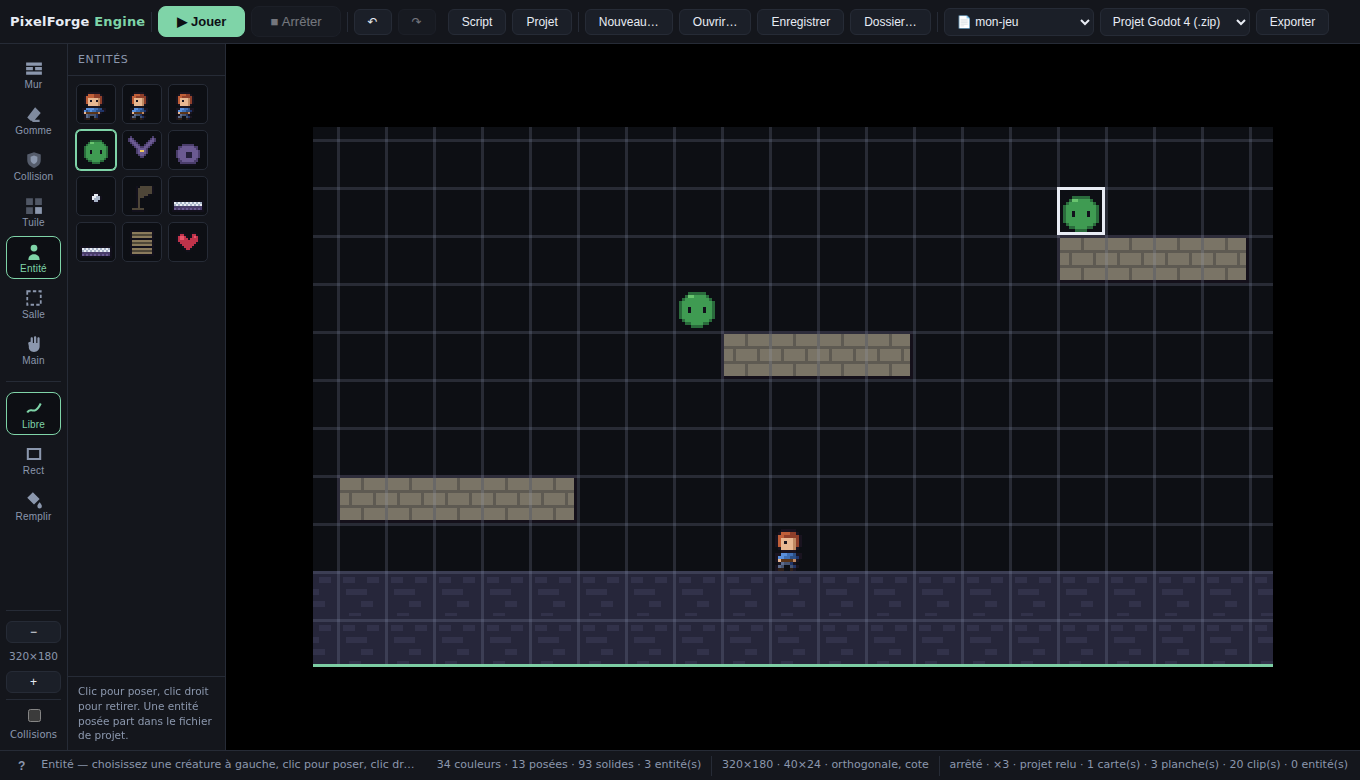
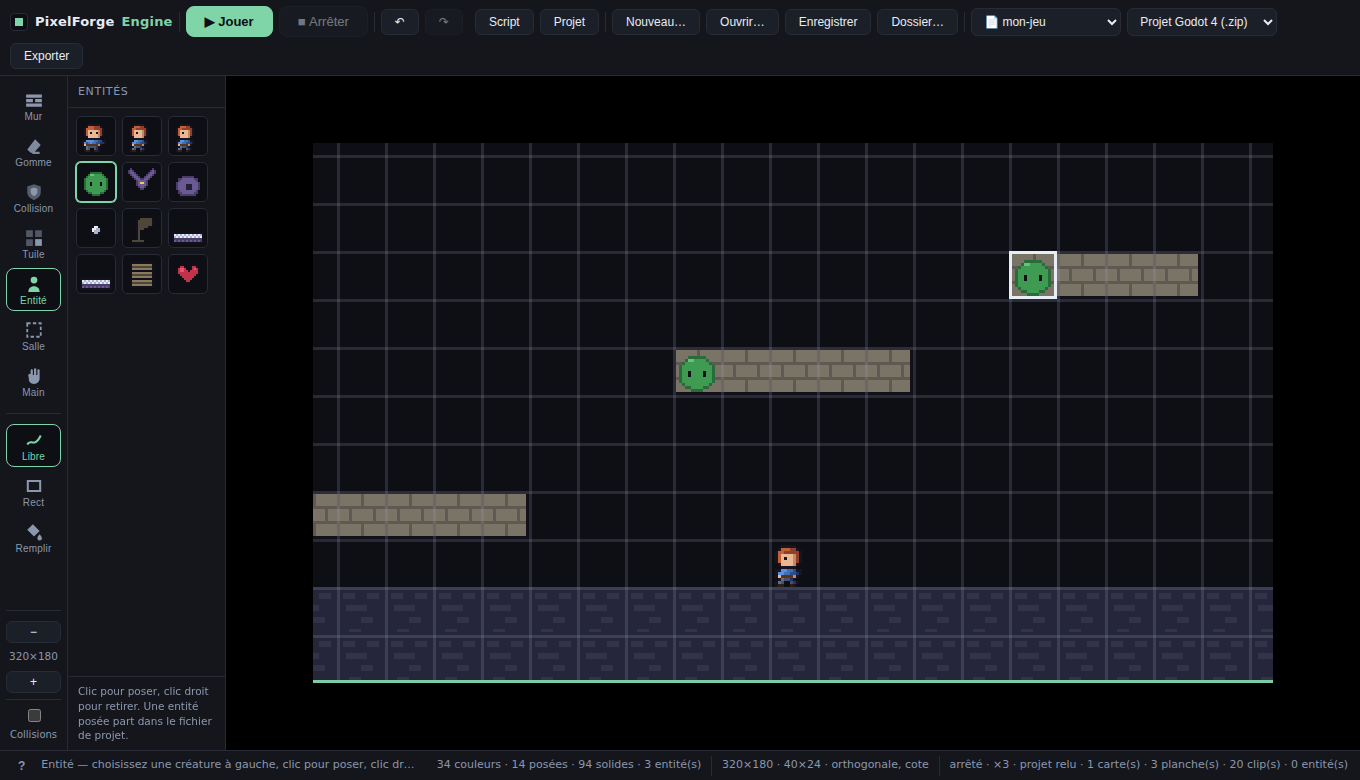
Choisir Collision allume sa surcouche, et les captures du README sont d'aujourd'hui
L'outil Collision peignait une chose invisible tant que « Collisions »
n'était pas coché : on peignait dans le noir sans le savoir. Le
choisir allume la surcouche, et la case à cocher suit — l'état reste
celui qu'on voit.

Les captures du dépôt — l'éditeur, le jeu en cours, le panneau —
montrent l'interface de ce matin, établi en damier et dock compris.

Fumée : 119/119 · bancs 406/83/96 · l'agent tient tout.

Claude-Session: https://claude.ai/code/session_01VmVMdfrWJCxEWeszTz99Ch

Changed region(s): [[0.2162, 0.1538, 0.9574, 0.7692], [0.0, 0.0, 1.0, 0.7077], [0.2162, 0.8, 0.9574, 0.8923]]

diff --git a/src/editeur/main.ts b/src/editeur/main.ts
@@ -630,6 +630,14 @@ const AIDE_OUTILS: Record<string, string> = {
 function choisirOutil(o: Outil): void {
   edition.etat.outil = o
   aide.textContent = AIDE_OUTILS[o] ?? ''
+  // L'outil Collision peint une chose invisible tant que sa surcouche est
+  // eteinte : on peindrait dans le noir sans le savoir. La choisir allume
+  // donc la surcouche — et la case a cocher suit, pour que l'etat reste
+  // celui qu'on voit.
+  if (o === 'collision' && !voirCollision.checked) {
+    voirCollision.checked = true
+    edition.etat.montrerCollision = true
+  }
   for (const b of outils.querySelectorAll('button')) {
     b.classList.toggle('actif', (b as HTMLElement).dataset.outil === o)
   }
